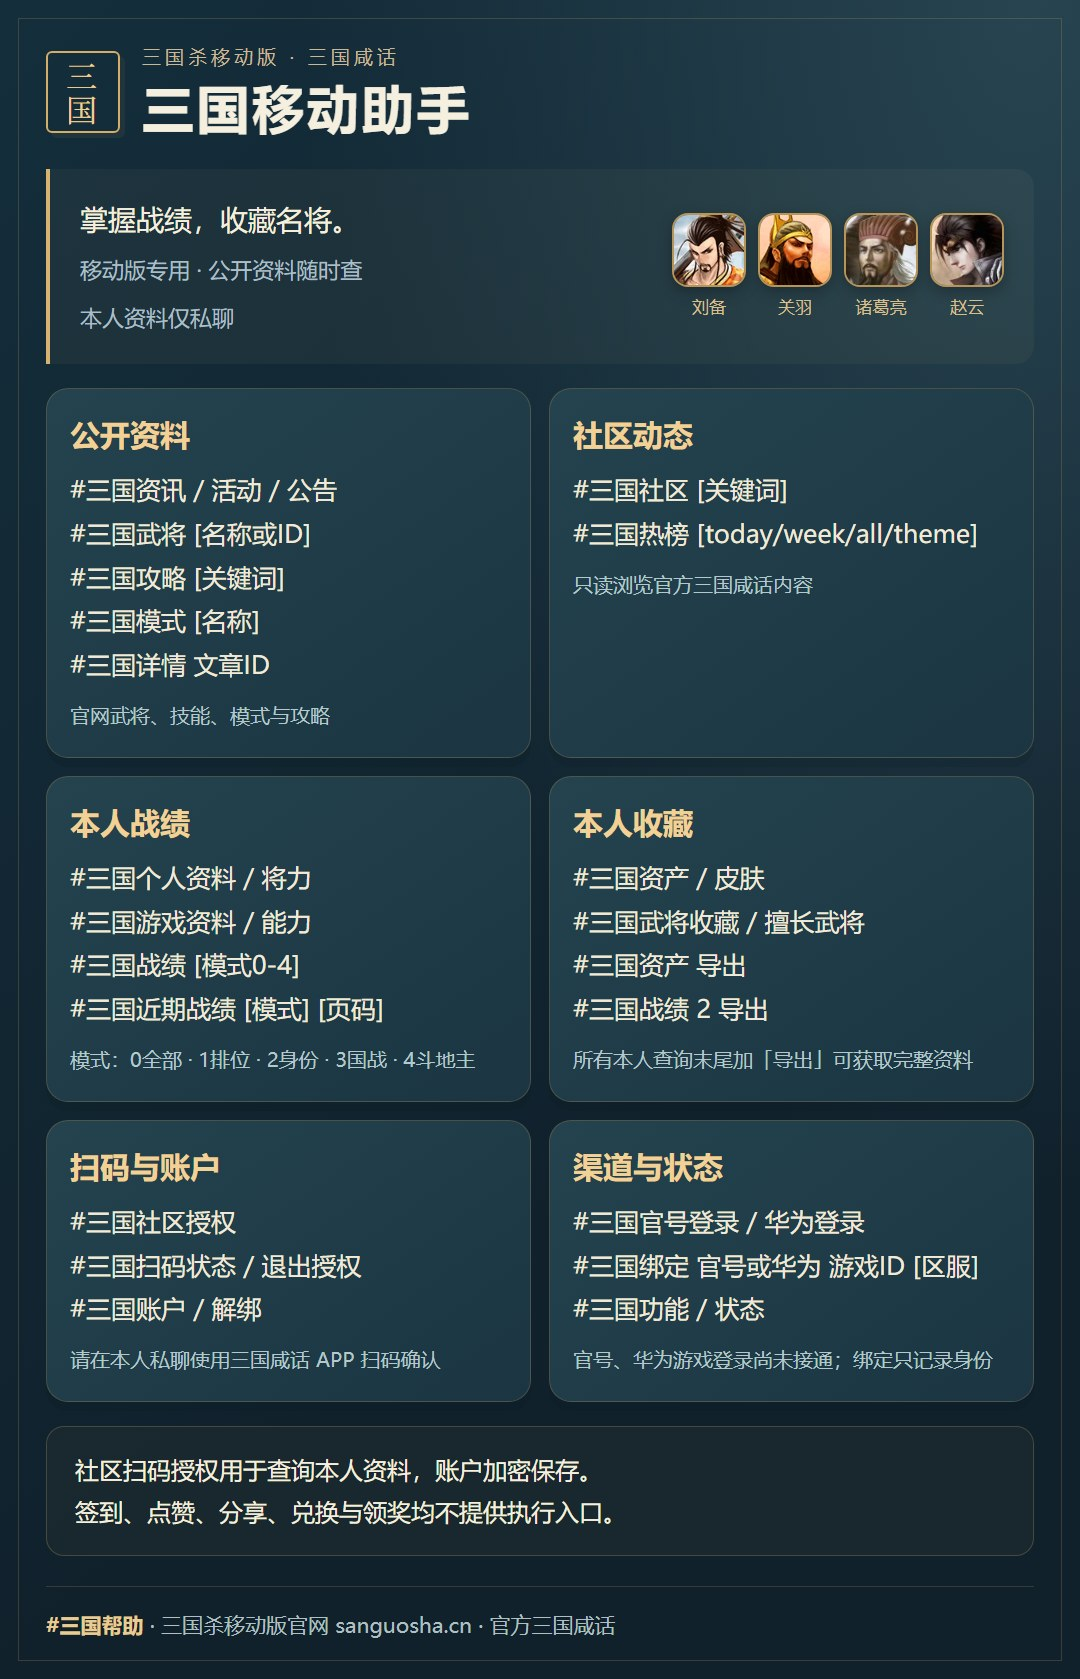
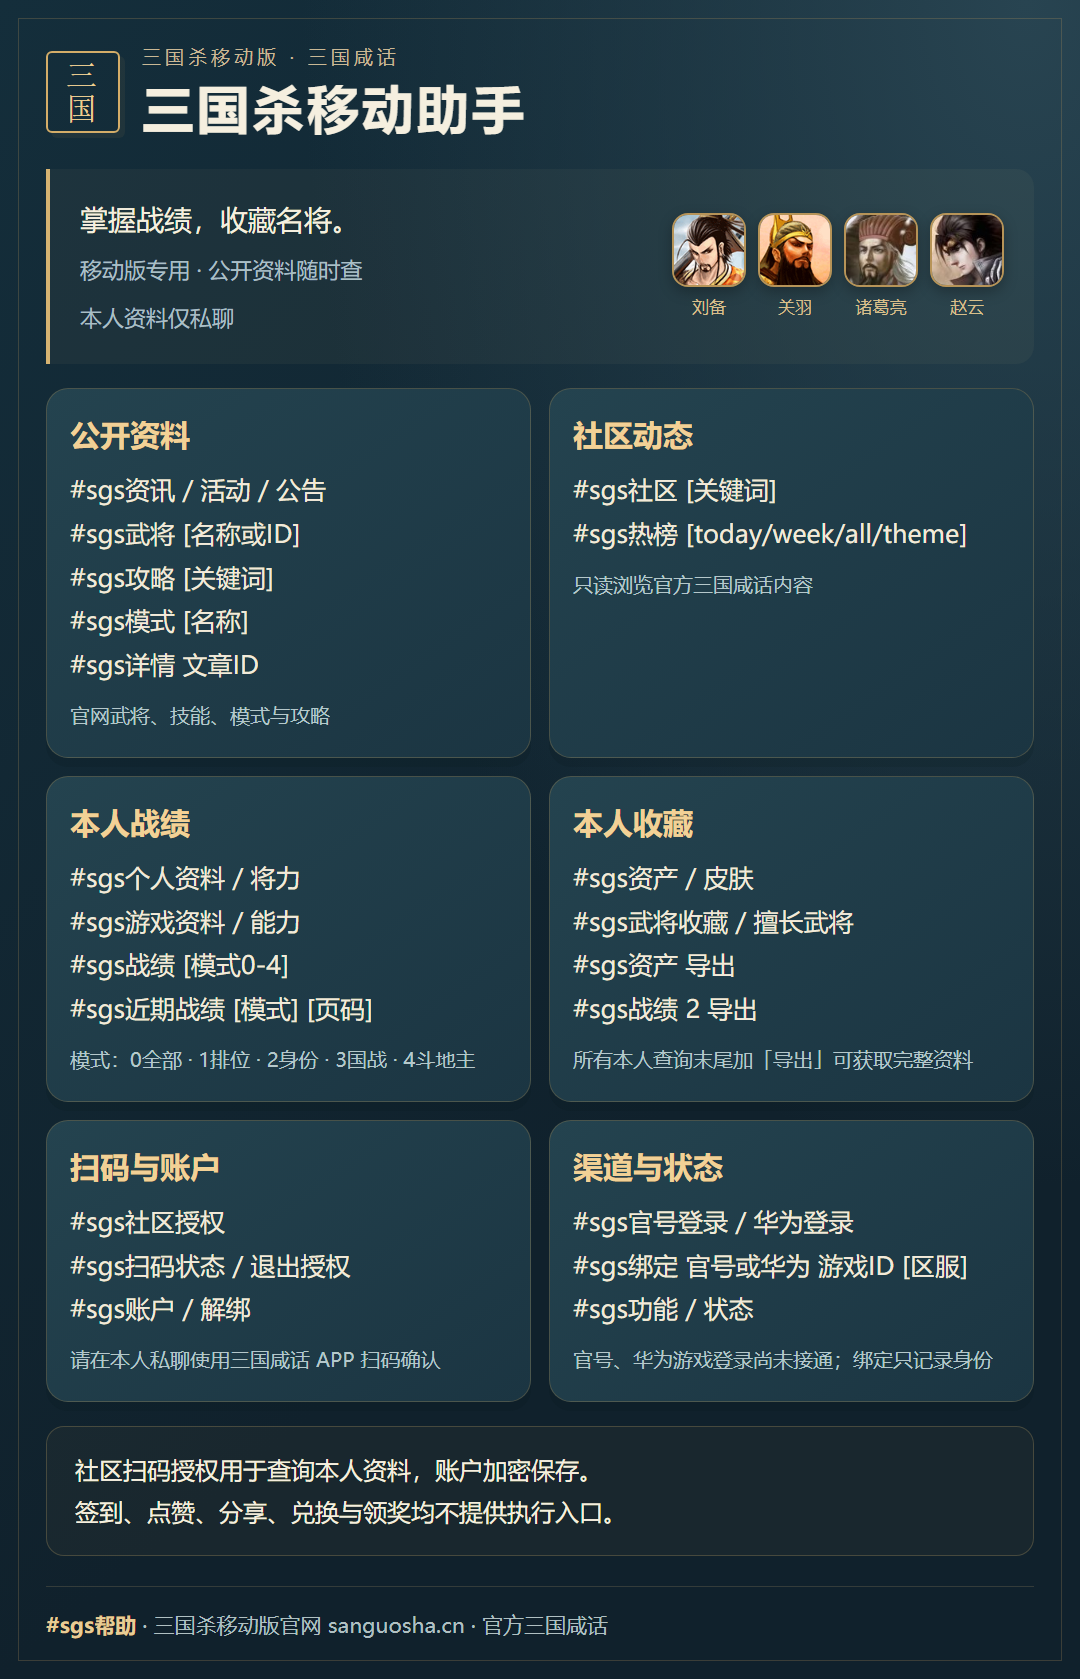
Rename plugin branding and switch SGS commands to #sgs

diff --git a/index.js b/index.js
@@ -21,9 +21,9 @@ if(enabled){
   // remain independent of a slow or blocked browser used by other card kinds.
   const renderNative=createQueuedCardRenderer(createNativeCardRenderer({onMetrics:metrics=>globalThis.logger?.info?.('[Sanguosha] 原生图片耗时：'+JSON.stringify(metrics))}),{botRoot:path.join(root,'.native-image-queue')});
   const renderDynamic=card=>typeof card?.svg==='string'?renderNative(card):renderCard(card);
-  const readHelp=createBundledHelpReader({root,defaultPrefix:'#三国'});
+  const readHelp=createBundledHelpReader({root,defaultPrefix:'#sgs'});
   const renderCachedHelp=createPublicHelpCache(renderCard);
-  const renderHelp=card=>{const prefix=engine.config.read().prefix;if(prefix==='#三国'){const bytes=readHelp({prefix,private:card.private});if(!bytes)throw new CardRenderError('HELP_IMAGE_UNAVAILABLE');return bytes}return renderCachedHelp(card)};
+  const renderHelp=card=>{const prefix=engine.config.read().prefix;if(prefix==='#sgs'){const bytes=readHelp({prefix,private:card.private});if(!bytes)throw new CardRenderError('HELP_IMAGE_UNAVAILABLE');return bytes}return renderCachedHelp(card)};
   const assetResolver=createAssetResolver(root);
   const {imageForGeneral}=createNativePortraitResolver({root,assetResolver});
   async function buildReplyCards(card){
@@ -41,7 +41,7 @@ if(enabled){
     return buildPublicCards(card.result,options);
   }
   class SanguoshaCommands extends Base{
-    constructor(){const p=engine.config.read().prefix.replace(/[.*+?^${}()|[\]\\]/g,'\\$&');super({name:'三国移动助手',dsc:'三国杀移动版',event:'message',priority:-8000,rule:[{reg:new RegExp('^'+p),fnc:'run',title:'三国杀移动版助手',description:'#三国帮助：公开资料、社区扫码、本人数据；游戏渠道状态见帮助'}]})}
+    constructor(){const p=engine.config.read().prefix.replace(/[.*+?^${}()|[\]\\]/g,'\\$&');super({name:'三国杀移动助手',dsc:'三国杀移动版',event:'message',priority:-8000,rule:[{reg:new RegExp('^'+p),fnc:'run',title:'三国杀移动助手',description:'#sgs帮助：公开资料、社区扫码、本人数据；游戏渠道状态见帮助'}]})}
     async run(e){const r=await engine.handle({...e,owner:String(e.user_id),text:e.msg,privateChat:!e.group_id,imageReply:true});if(!r.handled)return false;if(r.card){try{await sendCardReply(r,{event:e,render:r.card.type==='help'?renderHelp:renderDynamic,image:bytes=>globalThis.segment.image(bytes),buildCards:buildReplyCards});return true}catch(error){const failure=error instanceof CardReplyError?error.cause:error;globalThis.logger?.warn?.('[Sanguosha] 图片处理失败：'+(failure instanceof CardRenderError||failure instanceof CardRenderQueueError||failure instanceof NativeCardRenderError?failure.code:'SEND_OR_VIEW_FAILED'));if(error instanceof CardReplyError){await e.reply('已发送 '+error.sent+'/'+error.total+' 页，其余图片未能生成；原命令末尾加「文字」可查看全文。');return true}await e.reply('图片暂未生成，先显示文字；命令末尾加「文字」可查看文字版。')}}if(r.image)await e.reply([r.text,globalThis.segment?.image?segment.image(r.image):r.image]);else if(r.file){if(!e.friend?.sendFile)await e.reply('协议端不支持文件发送；请用独立API读取本人数据。');else {const upload=privateFileUpload(r.file.data,r.file.name);await e.friend.sendFile(upload.buffer,upload.name)}}else await e.reply(r.text);return true}
   }
   apps={SanguoshaCommands};

diff --git a/docs/VERIFICATION.md b/docs/VERIFICATION.md
@@ -49,7 +49,7 @@
 | --- | --- |
 | VM 普通重启后读取授权 | 新版加密库仍可成功解密已有数据，并保留原先三国咸话 APP 授权；本条仍仅证明社区授权的保存与恢复 |
 | 私密文件权限 | 实例私密配置与密文文件权限均为 `600`；不在本记录公开配置内容、密钥或密文 |
-| 用户侧命令 | 用户确认 `#三国帮助` 回复正常，证明重启后基本命令链路可用；不据此扩大为所有图片、个人文件及全部命令均完成真实客户端验收 |
+| 用户侧命令 | 更名前用户曾确认帮助命令回复正常，证明当时重启后基本命令链路可用；本次默认前缀改为 `#sgs`，真实客户端迁移验收另行记录，不将历史确认算作新前缀验收 |
 
 本条验证的是本次普通重启后的持久化与恢复，不代表已验证灾难恢复、密钥轮换或上游凭证的长期有效期。
 
@@ -83,7 +83,7 @@
 
 ## 仍不能宣称完成的项目
 
-- 官号游戏登录和华为渠道游戏登录仍未接通。`#三国官号登录` 和 `#三国华为登录` 均返回真实未接通状态与官方指引，不借游戏登录命令启动社区扫码；本人资料须另行使用 `#三国社区授权`；社区会话保留 `gameAuthenticated:false`、`channelVerified:false`。
+- 官号游戏登录和华为渠道游戏登录仍未接通。`#sgs官号登录` 和 `#sgs华为登录` 均返回真实未接通状态与官方指引，不借游戏登录命令启动社区扫码；本人资料须另行使用 `#sgs社区授权`；社区会话保留 `gameAuthenticated:false`、`channelVerified:false`。
 - 默认 APP 授权成功不等于新版 `pc-scan-v7` 微信方式完成本人验收；微信方式的票据交换、本人资料与角色映射仍需单独验证。
 - 字段的业务意义、游戏角色一致性、模式/分页统计口径、拥有状态和完整覆盖范围尚未与 APP 一一核对。11 个接口成功不等于“绝大多数信息已全部正确展示”或“比 APP 更丰富”。
 - 社区收藏不是拥有武将列表，公开皮肤图也不是本人拥有皮肤。本次空收藏仅代表该接口返回为空。

diff --git a/docs/PERSONAL-FIELDS.md b/docs/PERSONAL-FIELDS.md
@@ -33,7 +33,7 @@ H5 页面将排位、斗地主及总胜率分别按 `rankWin/rankNum*100`、`dou
 
 ## 摘要、未知字段与完整导出
 
-本人命令末尾加 `导出`，例如 `#三国资产 导出`、`#三国战绩 2 导出`、`#三国近期战绩 0 2 导出`，可获得该次响应的完整已脱敏 JSON。所有本人查询都支持此后缀；导出使用同一本人私聊权限与原有内存文件上传链路。命令前缀随实例配置变化。
+本人命令末尾加 `导出`，例如 `#sgs资产 导出`、`#sgs战绩 2 导出`、`#sgs近期战绩 0 2 导出`，可获得该次响应的完整已脱敏 JSON。所有本人查询都支持此后缀；导出使用同一本人私聊权限与原有内存文件上传链路。命令前缀随实例配置变化。
 
 摘要只显示有证据的字段，并提示未映射字段；数组摘要受 `maxItems` 限制。没有中文映射的结构继续保留官方字段名，内容过长自动转 JSON 文件。完整导出保留未知对象、数组及字段，沿用接口层既有隐私清洗、响应大小、层级与条数边界；不会为了显示摘要修改原始业务对象。`maxReplyChars` 控制摘要或原字段 JSON 的消息转文件阈值。
 

diff --git a/docs/API-AUDIT.md b/docs/API-AUDIT.md
@@ -79,7 +79,7 @@
 
 ## 原创插件模块
 
-`SanguoshaMobile-Plugin/lib/public.mjs` 仅做公开只读查询；所有列表统一 `{items, sourceUrl,...}`，单件带 `sourceUrl`。`lib/login.mjs` 实现登录能力状态和渠道隔离身份登记；不收集密码、验证码、Cookie、Token，不伪造成功。自动化测试覆盖移动版来源、武将变体、嵌套正文、响应隐私字段、受保护接口、URL跳转边界和渠道隔离；另有真实公开接口烟测。
+`SGS-Mobile-Plugin/lib/public.mjs` 仅做公开只读查询；所有列表统一 `{items, sourceUrl,...}`，单件带 `sourceUrl`。`lib/login.mjs` 实现登录能力状态和渠道隔离身份登记；不收集密码、验证码、Cookie、Token，不伪造成功。自动化测试覆盖移动版来源、武将变体、嵌套正文、响应隐私字段、受保护接口、URL跳转边界和渠道隔离；另有真实公开接口烟测。
 
 致谢应列杭州游卡网络技术有限公司/三国杀移动版官网、三国咸话公开社区 API；华为文档只作为登录能力研究依据，当前没有调用华为 API。请不要把未调用的接口列为已连接 API。
 
